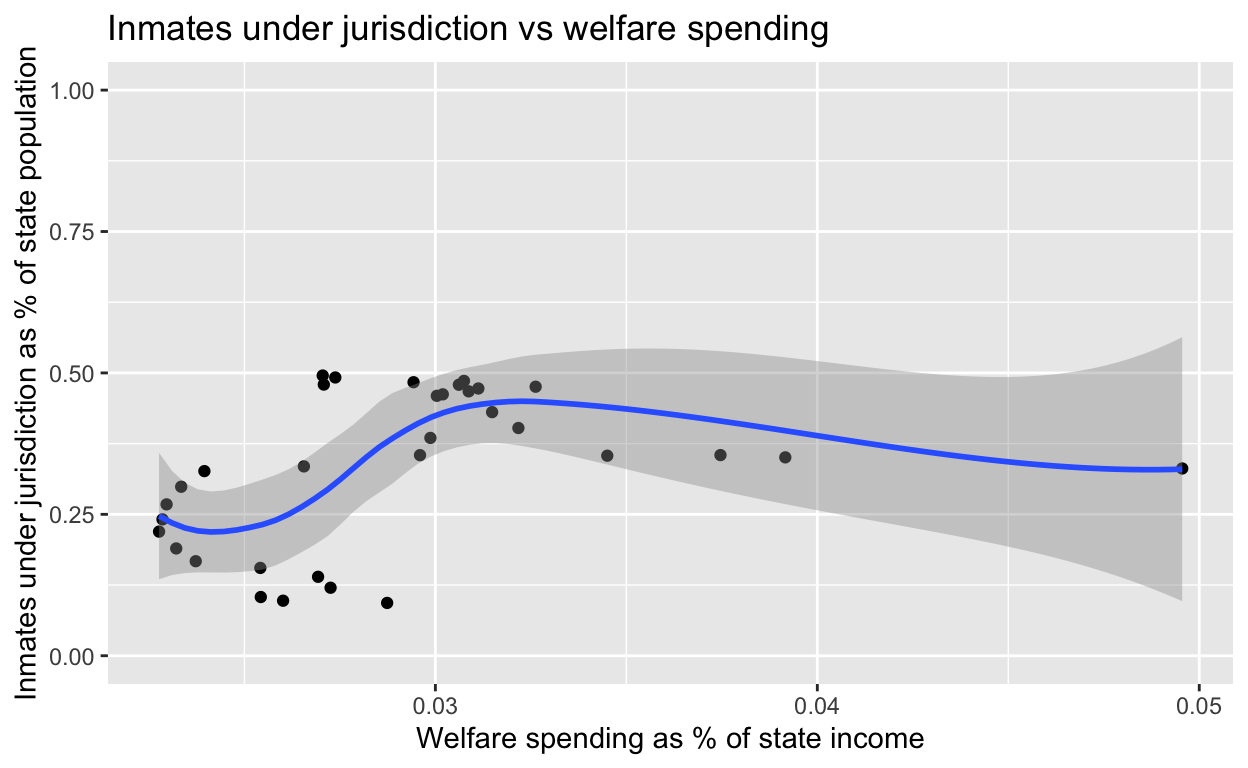
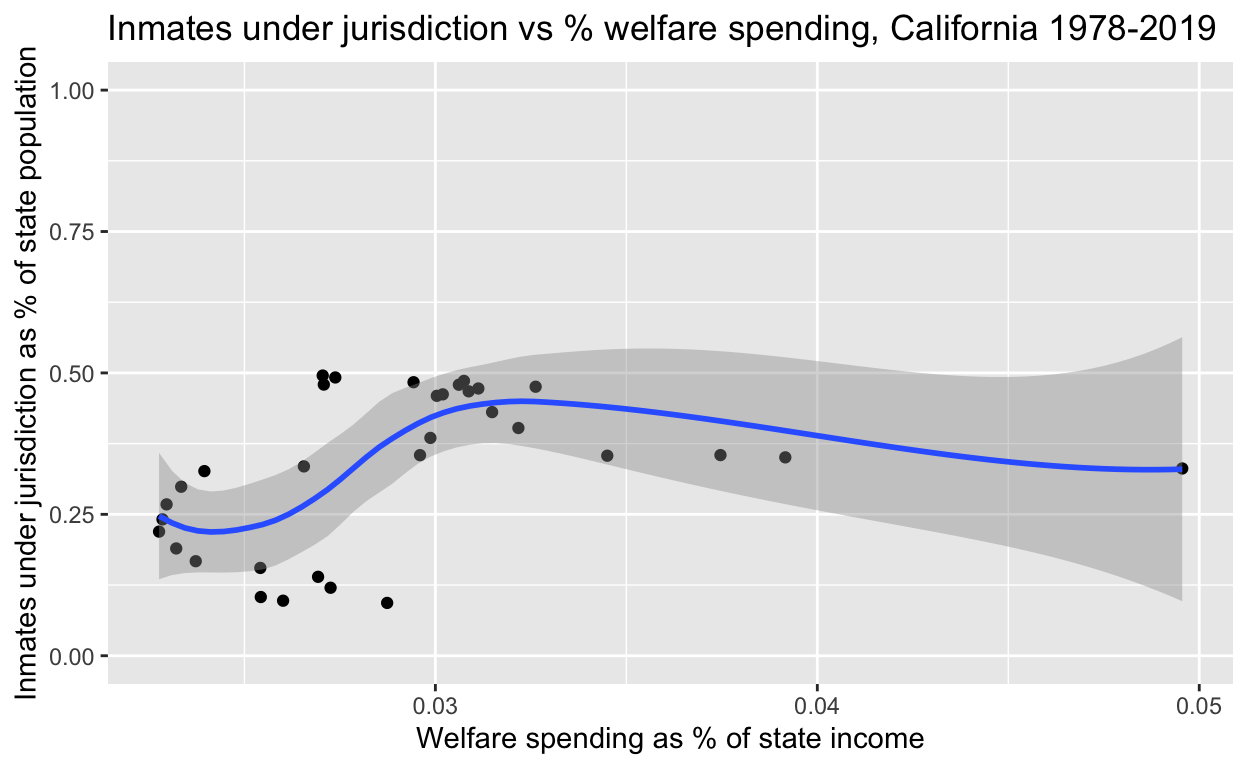
Image labels

Changed region(s): [[0.4375, 0.0, 0.9688, 0.0625]]

diff --git a/index.html b/index.html
@@ -115,7 +115,7 @@ code span.wa { color: #5e5e5e; font-style: italic; } /* Warning */
   <!--/radix_placeholder_rmarkdown_metadata-->
   
   <script type="text/json" id="radix-resource-manifest">
-  {"type":"character","attributes":{},"value":["index_files/anchor-4.2.2/anchor.min.js","index_files/bowser-1.9.3/bowser.min.js","index_files/distill-2.2.21/template.v2.js","index_files/figure-html5/unnamed-chunk-4-1.png","index_files/figure-html5/unnamed-chunk-4-2.png","index_files/figure-html5/unnamed-chunk-4-3.png","index_files/figure-html5/unnamed-chunk-4-4.png","index_files/figure-html5/unnamed-chunk-4-5.png","index_files/figure-html5/unnamed-chunk-4-6.png","index_files/figure-html5/unnamed-chunk-5-1.png","index_files/figure-html5/unnamed-chunk-5-2.png","index_files/figure-html5/unnamed-chunk-6-1.png","index_files/figure-html5/unnamed-chunk-6-2.png","index_files/figure-html5/unnamed-chunk-7-1.png","index_files/figure-html5/unnamed-chunk-7-2.png","index_files/figure-html5/unnamed-chunk-8-1.png","index_files/figure-html5/unnamed-chunk-8-2.png","index_files/figure-html5/unnamed-chunk-8-3.png","index_files/figure-html5/unnamed-chunk-8-4.png","index_files/header-attrs-2.16/header-attrs.js","index_files/header-attrs-2.17/header-attrs.js","index_files/jquery-3.6.0/jquery-3.6.0.js","index_files/jquery-3.6.0/jquery-3.6.0.min.js","index_files/jquery-3.6.0/jquery-3.6.0.min.map","index_files/popper-2.6.0/popper.min.js","index_files/tippy-6.2.7/tippy-bundle.umd.min.js","index_files/tippy-6.2.7/tippy-light-border.css","index_files/tippy-6.2.7/tippy.css","index_files/tippy-6.2.7/tippy.umd.min.js","index_files/webcomponents-2.0.0/webcomponents.js","project_data/cspp_data_population.csv","project_data/cspp_data_welfare.csv","project_data/cspp_data.csv","project_data/ICPSR_38249-2/38249-descriptioncitation.html","project_data/ICPSR_38249-2/38249-manifest.txt","project_data/ICPSR_38249-2/38249-related_literature.txt","project_data/ICPSR_38249-2/DS0001/38249-0001-Codebook.pdf","project_data/ICPSR_38249-2/DS0001/38249-0001-Documentation-notes.zip","project_data/ICPSR_38249-2/DS0001/38249-0001-Documentation-NPS_Crosswalk_1978_to_2020.xlsx","project_data/ICPSR_38249-2/DS0001/38249-0001-Questionnaire.pdf","project_data/ICPSR_38249-2/factor_to_numeric_icpsr.R","project_data/ICPSR_38249-2/TermsOfUse.html","project_data/ICPSR_38249-3/38249-descriptioncitation.html","project_data/ICPSR_38249-3/38249-manifest.txt","project_data/ICPSR_38249-3/38249-related_literature.txt","project_data/ICPSR_38249-3/DS0001/38249-0001-Codebook.pdf","project_data/ICPSR_38249-3/DS0001/38249-0001-Data.tsv","project_data/ICPSR_38249-3/DS0001/38249-0001-Documentation-notes.zip","project_data/ICPSR_38249-3/DS0001/38249-0001-Documentation-NPS_Crosswalk_1978_to_2020.xlsx","project_data/ICPSR_38249-3/DS0001/38249-0001-Questionnaire.pdf","project_data/ICPSR_38249-3/TermsOfUse.html","project_data/NPPdata.rda"]}
+  {"type":"character","attributes":{},"value":["index_files/anchor-4.2.2/anchor.min.js","index_files/bowser-1.9.3/bowser.min.js","index_files/distill-2.2.21/template.v2.js","index_files/figure-html5/unnamed-chunk-4-1.png","index_files/figure-html5/unnamed-chunk-4-2.png","index_files/figure-html5/unnamed-chunk-4-3.png","index_files/figure-html5/unnamed-chunk-4-4.png","index_files/figure-html5/unnamed-chunk-4-5.png","index_files/figure-html5/unnamed-chunk-4-6.png","index_files/figure-html5/unnamed-chunk-5-1.png","index_files/figure-html5/unnamed-chunk-5-2.png","index_files/figure-html5/unnamed-chunk-6-1.png","index_files/figure-html5/unnamed-chunk-6-2.png","index_files/figure-html5/unnamed-chunk-7-1.png","index_files/figure-html5/unnamed-chunk-7-2.png","index_files/figure-html5/unnamed-chunk-8-1.png","index_files/figure-html5/unnamed-chunk-8-2.png","index_files/figure-html5/unnamed-chunk-8-3.png","index_files/figure-html5/unnamed-chunk-8-4.png","index_files/figure-html5/unnamed-chunk-8-5.png","index_files/header-attrs-2.16/header-attrs.js","index_files/header-attrs-2.17/header-attrs.js","index_files/jquery-3.6.0/jquery-3.6.0.js","index_files/jquery-3.6.0/jquery-3.6.0.min.js","index_files/jquery-3.6.0/jquery-3.6.0.min.map","index_files/popper-2.6.0/popper.min.js","index_files/tippy-6.2.7/tippy-bundle.umd.min.js","index_files/tippy-6.2.7/tippy-light-border.css","index_files/tippy-6.2.7/tippy.css","index_files/tippy-6.2.7/tippy.umd.min.js","index_files/webcomponents-2.0.0/webcomponents.js","project_data/cspp_data_population.csv","project_data/cspp_data_welfare.csv","project_data/cspp_data.csv","project_data/ICPSR_38249-2/38249-descriptioncitation.html","project_data/ICPSR_38249-2/38249-manifest.txt","project_data/ICPSR_38249-2/38249-related_literature.txt","project_data/ICPSR_38249-2/DS0001/38249-0001-Codebook.pdf","project_data/ICPSR_38249-2/DS0001/38249-0001-Documentation-notes.zip","project_data/ICPSR_38249-2/DS0001/38249-0001-Documentation-NPS_Crosswalk_1978_to_2020.xlsx","project_data/ICPSR_38249-2/DS0001/38249-0001-Questionnaire.pdf","project_data/ICPSR_38249-2/factor_to_numeric_icpsr.R","project_data/ICPSR_38249-2/TermsOfUse.html","project_data/ICPSR_38249-3/38249-descriptioncitation.html","project_data/ICPSR_38249-3/38249-manifest.txt","project_data/ICPSR_38249-3/38249-related_literature.txt","project_data/ICPSR_38249-3/DS0001/38249-0001-Codebook.pdf","project_data/ICPSR_38249-3/DS0001/38249-0001-Data.tsv","project_data/ICPSR_38249-3/DS0001/38249-0001-Documentation-notes.zip","project_data/ICPSR_38249-3/DS0001/38249-0001-Documentation-NPS_Crosswalk_1978_to_2020.xlsx","project_data/ICPSR_38249-3/DS0001/38249-0001-Questionnaire.pdf","project_data/ICPSR_38249-3/TermsOfUse.html","project_data/NPPdata.rda"]}
   </script>
   <!--radix_placeholder_navigation_in_header-->
   <!--/radix_placeholder_navigation_in_header-->
@@ -1659,7 +1659,7 @@ code span.wa { color: #5e5e5e; font-style: italic; } /* Warning */
 <span>  <span class='fu'><a href='https://ggplot2.tidyverse.org/reference/geom_smooth.html'>geom_smooth</a></span><span class='op'>(</span>size <span class='op'>=</span> <span class='fl'>2</span><span class='op'>)</span> <span class='op'>+</span></span>
 <span>  <span class='fu'><a href='https://ggplot2.tidyverse.org/reference/labs.html'>labs</a></span><span class='op'>(</span>x <span class='op'>=</span> <span class='st'>"Year"</span>,</span>
 <span>       y <span class='op'>=</span> <span class='st'>"Total inmates admitted"</span>,</span>
-<span>       title <span class='op'>=</span> <span class='st'>"Total inmate admissions by state per year, 1999-2019"</span><span class='op'>)</span> <span class='op'>+</span></span>
+<span>       title <span class='op'>=</span> <span class='st'>"Total inmate admissions by state per year, 1978-2019"</span><span class='op'>)</span> <span class='op'>+</span></span>
 <span>  <span class='fu'><a href='https://ggplot2.tidyverse.org/reference/lims.html'>xlim</a></span><span class='op'>(</span><span class='fl'>1978</span>, <span class='fl'>2019</span><span class='op'>)</span></span></code></pre>
 </div>
 <p><img src="index_files/figure-html5/unnamed-chunk-5-2.png" width="624" /></p>
@@ -1674,7 +1674,7 @@ code span.wa { color: #5e5e5e; font-style: italic; } /* Warning */
 <span>  <span class='fu'><a href='https://ggplot2.tidyverse.org/reference/lims.html'>ylim</a></span><span class='op'>(</span><span class='fu'><a href='https://rdrr.io/r/base/c.html'>c</a></span><span class='op'>(</span><span class='fl'>0</span>,<span class='fl'>.75</span><span class='op'>)</span><span class='op'>)</span> <span class='op'>+</span></span>
 <span>   <span class='fu'><a href='https://ggplot2.tidyverse.org/reference/labs.html'>labs</a></span><span class='op'>(</span>x <span class='op'>=</span> <span class='st'>"Log of welfare spending per capita"</span>,</span>
 <span>       y <span class='op'>=</span> <span class='st'>"Inmate admission as % of state population"</span>,</span>
-<span>       title <span class='op'>=</span> <span class='st'>"Inmate admission vs log of welfare spending"</span><span class='op'>)</span></span></code></pre>
+<span>       title <span class='op'>=</span> <span class='st'>"Inmate admission vs log of welfare spending, 1978-2019"</span><span class='op'>)</span></span></code></pre>
 </div>
 <img src="index_files/figure-html5/unnamed-chunk-6-1.png" width="624" />
 <div class="sourceCode">
@@ -1686,7 +1686,7 @@ code span.wa { color: #5e5e5e; font-style: italic; } /* Warning */
 <span>  <span class='fu'><a href='https://ggplot2.tidyverse.org/reference/lims.html'>ylim</a></span><span class='op'>(</span><span class='fu'><a href='https://rdrr.io/r/base/c.html'>c</a></span><span class='op'>(</span><span class='fl'>0</span>,<span class='fl'>1</span><span class='op'>)</span><span class='op'>)</span> <span class='op'>+</span></span>
 <span>   <span class='fu'><a href='https://ggplot2.tidyverse.org/reference/labs.html'>labs</a></span><span class='op'>(</span>x <span class='op'>=</span> <span class='st'>"Log of welfare spending per capita"</span>,</span>
 <span>       y <span class='op'>=</span> <span class='st'>"Inmates under jurisdiction as % of state population"</span>,</span>
-<span>       title <span class='op'>=</span> <span class='st'>"Inmates under jurisdiction vs log of welfare spending"</span><span class='op'>)</span></span></code></pre>
+<span>       title <span class='op'>=</span> <span class='st'>"Inmates under jurisdiction vs log of welfare spending, 1978-2019"</span><span class='op'>)</span></span></code></pre>
 </div>
 <p><img src="index_files/figure-html5/unnamed-chunk-6-2.png" width="624" /></p>
 </div>
@@ -1700,7 +1700,7 @@ code span.wa { color: #5e5e5e; font-style: italic; } /* Warning */
 <span>  <span class='fu'><a href='https://ggplot2.tidyverse.org/reference/lims.html'>ylim</a></span><span class='op'>(</span><span class='fl'>0</span>,<span class='fl'>.75</span><span class='op'>)</span> <span class='op'>+</span></span>
 <span>   <span class='fu'><a href='https://ggplot2.tidyverse.org/reference/labs.html'>labs</a></span><span class='op'>(</span>x <span class='op'>=</span> <span class='st'>"Welfare spending as % of state income"</span>,</span>
 <span>       y <span class='op'>=</span> <span class='st'>"Inmate admission as % of state population"</span>,</span>
-<span>       title <span class='op'>=</span> <span class='st'>"Inmate admission vs welfare spending"</span><span class='op'>)</span> </span></code></pre>
+<span>       title <span class='op'>=</span> <span class='st'>"Inmate admission vs welfare spending, 1978-2019"</span><span class='op'>)</span> </span></code></pre>
 </div>
 <img src="index_files/figure-html5/unnamed-chunk-7-1.png" width="624" />
 <div class="sourceCode">
@@ -1712,7 +1712,7 @@ code span.wa { color: #5e5e5e; font-style: italic; } /* Warning */
 <span>  <span class='fu'><a href='https://ggplot2.tidyverse.org/reference/lims.html'>ylim</a></span><span class='op'>(</span><span class='fl'>0</span>,<span class='fl'>1</span><span class='op'>)</span> <span class='op'>+</span></span>
 <span>   <span class='fu'><a href='https://ggplot2.tidyverse.org/reference/labs.html'>labs</a></span><span class='op'>(</span>x <span class='op'>=</span> <span class='st'>"Welfare spending as % of state income"</span>,</span>
 <span>       y <span class='op'>=</span> <span class='st'>"Inmates under jurisdiction as % of state population"</span>,</span>
-<span>       title <span class='op'>=</span> <span class='st'>"Inmates under jurisdiction vs welfare spending"</span><span class='op'>)</span></span></code></pre>
+<span>       title <span class='op'>=</span> <span class='st'>"Inmates under jurisdiction vs % welfare spending, 1978-2019"</span><span class='op'>)</span></span></code></pre>
 </div>
 <p><img src="index_files/figure-html5/unnamed-chunk-7-2.png" width="624" /></p>
 </div>
@@ -1729,7 +1729,7 @@ code span.wa { color: #5e5e5e; font-style: italic; } /* Warning */
 <span>  <span class='fu'><a href='https://ggplot2.tidyverse.org/reference/lims.html'>ylim</a></span><span class='op'>(</span><span class='fl'>0</span>,<span class='fl'>.75</span><span class='op'>)</span> <span class='op'>+</span></span>
 <span>   <span class='fu'><a href='https://ggplot2.tidyverse.org/reference/labs.html'>labs</a></span><span class='op'>(</span>x <span class='op'>=</span> <span class='st'>"Welfare spending as % of state income"</span>,</span>
 <span>       y <span class='op'>=</span> <span class='st'>"Inmate admission as % of state population"</span>,</span>
-<span>       title <span class='op'>=</span> <span class='st'>"Inmate admission vs welfare spending"</span><span class='op'>)</span> </span></code></pre>
+<span>       title <span class='op'>=</span> <span class='st'>"Inmate admission vs welfare spending, California 1978-2019"</span><span class='op'>)</span> </span></code></pre>
 </div>
 <img src="index_files/figure-html5/unnamed-chunk-8-1.png" width="624" />
 <div class="sourceCode">
@@ -1742,7 +1742,7 @@ code span.wa { color: #5e5e5e; font-style: italic; } /* Warning */
 <span>  <span class='fu'><a href='https://ggplot2.tidyverse.org/reference/lims.html'>ylim</a></span><span class='op'>(</span><span class='fl'>0</span>,<span class='fl'>1</span><span class='op'>)</span> <span class='op'>+</span></span>
 <span>   <span class='fu'><a href='https://ggplot2.tidyverse.org/reference/labs.html'>labs</a></span><span class='op'>(</span>x <span class='op'>=</span> <span class='st'>"Welfare spending as % of state income"</span>,</span>
 <span>       y <span class='op'>=</span> <span class='st'>"Inmates under jurisdiction as % of state population"</span>,</span>
-<span>       title <span class='op'>=</span> <span class='st'>"Inmates under jurisdiction vs welfare spending"</span><span class='op'>)</span></span></code></pre>
+<span>       title <span class='op'>=</span> <span class='st'>"Inmates under jurisdiction vs % welfare spending, California 1978-2019"</span><span class='op'>)</span></span></code></pre>
 </div>
 <img src="index_files/figure-html5/unnamed-chunk-8-2.png" width="624" />
 <div class="sourceCode">
@@ -1757,7 +1757,7 @@ code span.wa { color: #5e5e5e; font-style: italic; } /* Warning */
 <span>  <span class='fu'><a href='https://ggplot2.tidyverse.org/reference/lims.html'>ylim</a></span><span class='op'>(</span><span class='fl'>0</span>,<span class='fl'>.75</span><span class='op'>)</span> <span class='op'>+</span></span>
 <span>   <span class='fu'><a href='https://ggplot2.tidyverse.org/reference/labs.html'>labs</a></span><span class='op'>(</span>x <span class='op'>=</span> <span class='st'>"Welfare spending as % of state income"</span>,</span>
 <span>       y <span class='op'>=</span> <span class='st'>"Inmate admission as % of state population"</span>,</span>
-<span>       title <span class='op'>=</span> <span class='st'>"Inmate admission vs welfare spending"</span><span class='op'>)</span> </span></code></pre>
+<span>       title <span class='op'>=</span> <span class='st'>"Inmate admission vs % welfare spending, 1978-2000"</span><span class='op'>)</span> </span></code></pre>
 </div>
 <img src="index_files/figure-html5/unnamed-chunk-8-3.png" width="624" />
 <div class="sourceCode">
@@ -1770,7 +1770,7 @@ code span.wa { color: #5e5e5e; font-style: italic; } /* Warning */
 <span>  <span class='fu'><a href='https://ggplot2.tidyverse.org/reference/lims.html'>ylim</a></span><span class='op'>(</span><span class='fl'>0</span>,<span class='fl'>1</span><span class='op'>)</span> <span class='op'>+</span></span>
 <span>   <span class='fu'><a href='https://ggplot2.tidyverse.org/reference/labs.html'>labs</a></span><span class='op'>(</span>x <span class='op'>=</span> <span class='st'>"Welfare spending as % of state income"</span>,</span>
 <span>       y <span class='op'>=</span> <span class='st'>"Inmates under jurisdiction as % of state population"</span>,</span>
-<span>       title <span class='op'>=</span> <span class='st'>"Inmates under jurisdiction vs welfare spending"</span><span class='op'>)</span></span></code></pre>
+<span>       title <span class='op'>=</span> <span class='st'>"Inmates under jurisdiction vs % welfare spending, 1978-2000"</span><span class='op'>)</span></span></code></pre>
 </div>
 <p><img src="index_files/figure-html5/unnamed-chunk-8-4.png" width="624" /></p>
 </div>
